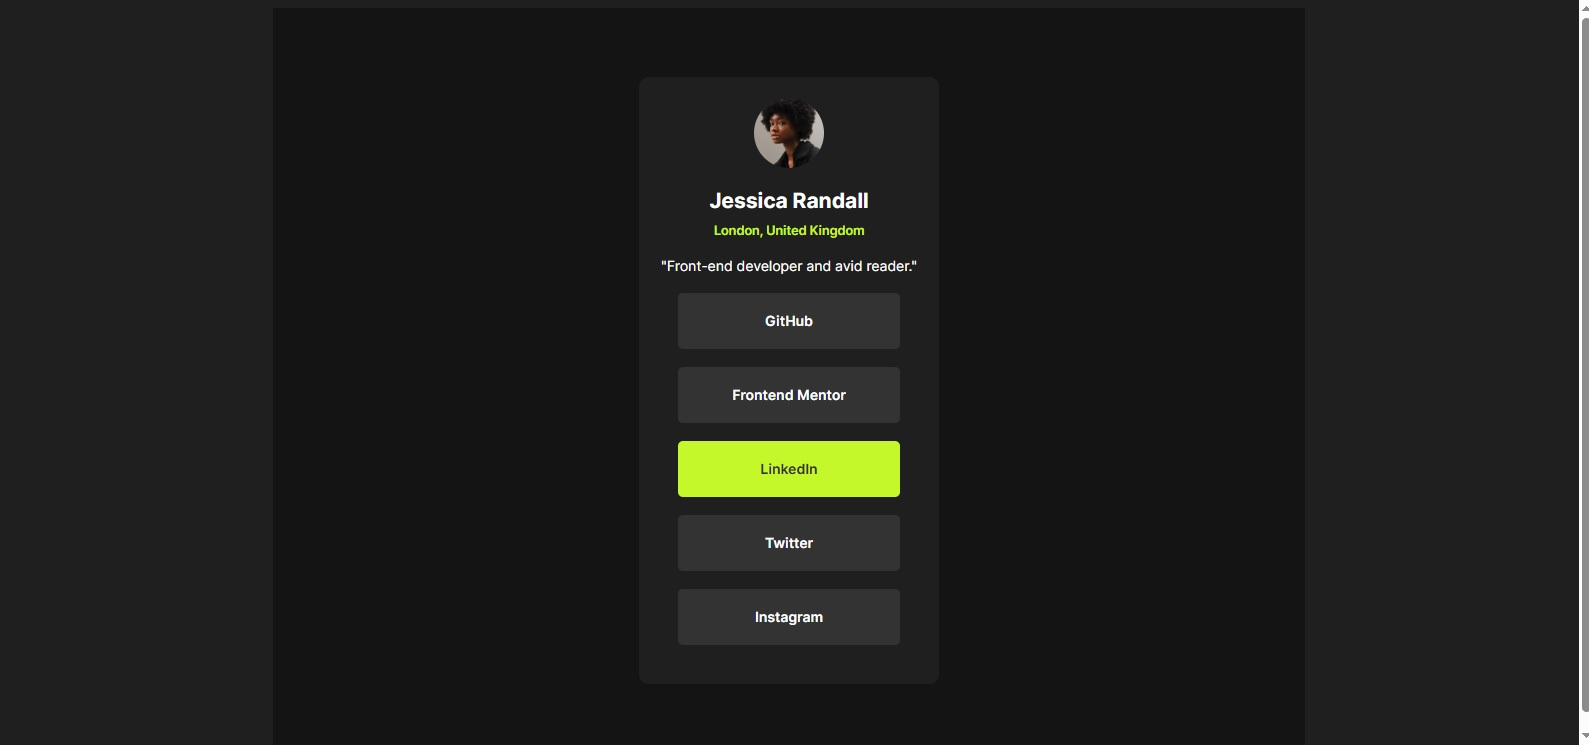
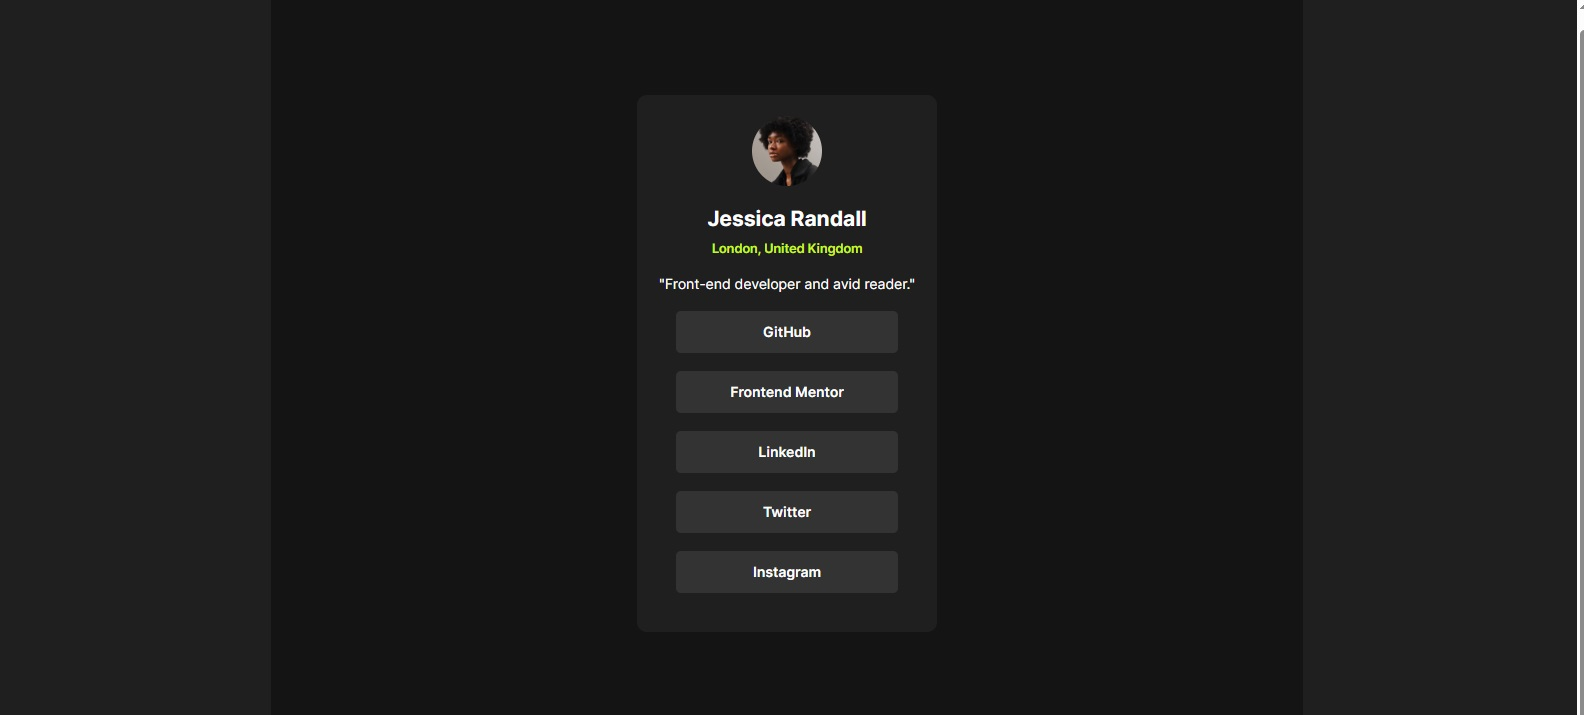
fixed line height

diff --git a/index.html b/index.html
@@ -79,8 +79,8 @@ li {
   background-color: var(--grey700);
   border-radius: 5px;
   text-align: center;
-  height: 3em;
-  line-height: 3em;
+  height: 2em;
+  line-height: 2em;
   margin: 1.3em;
   padding: .5em;
   font-weight: 600;
